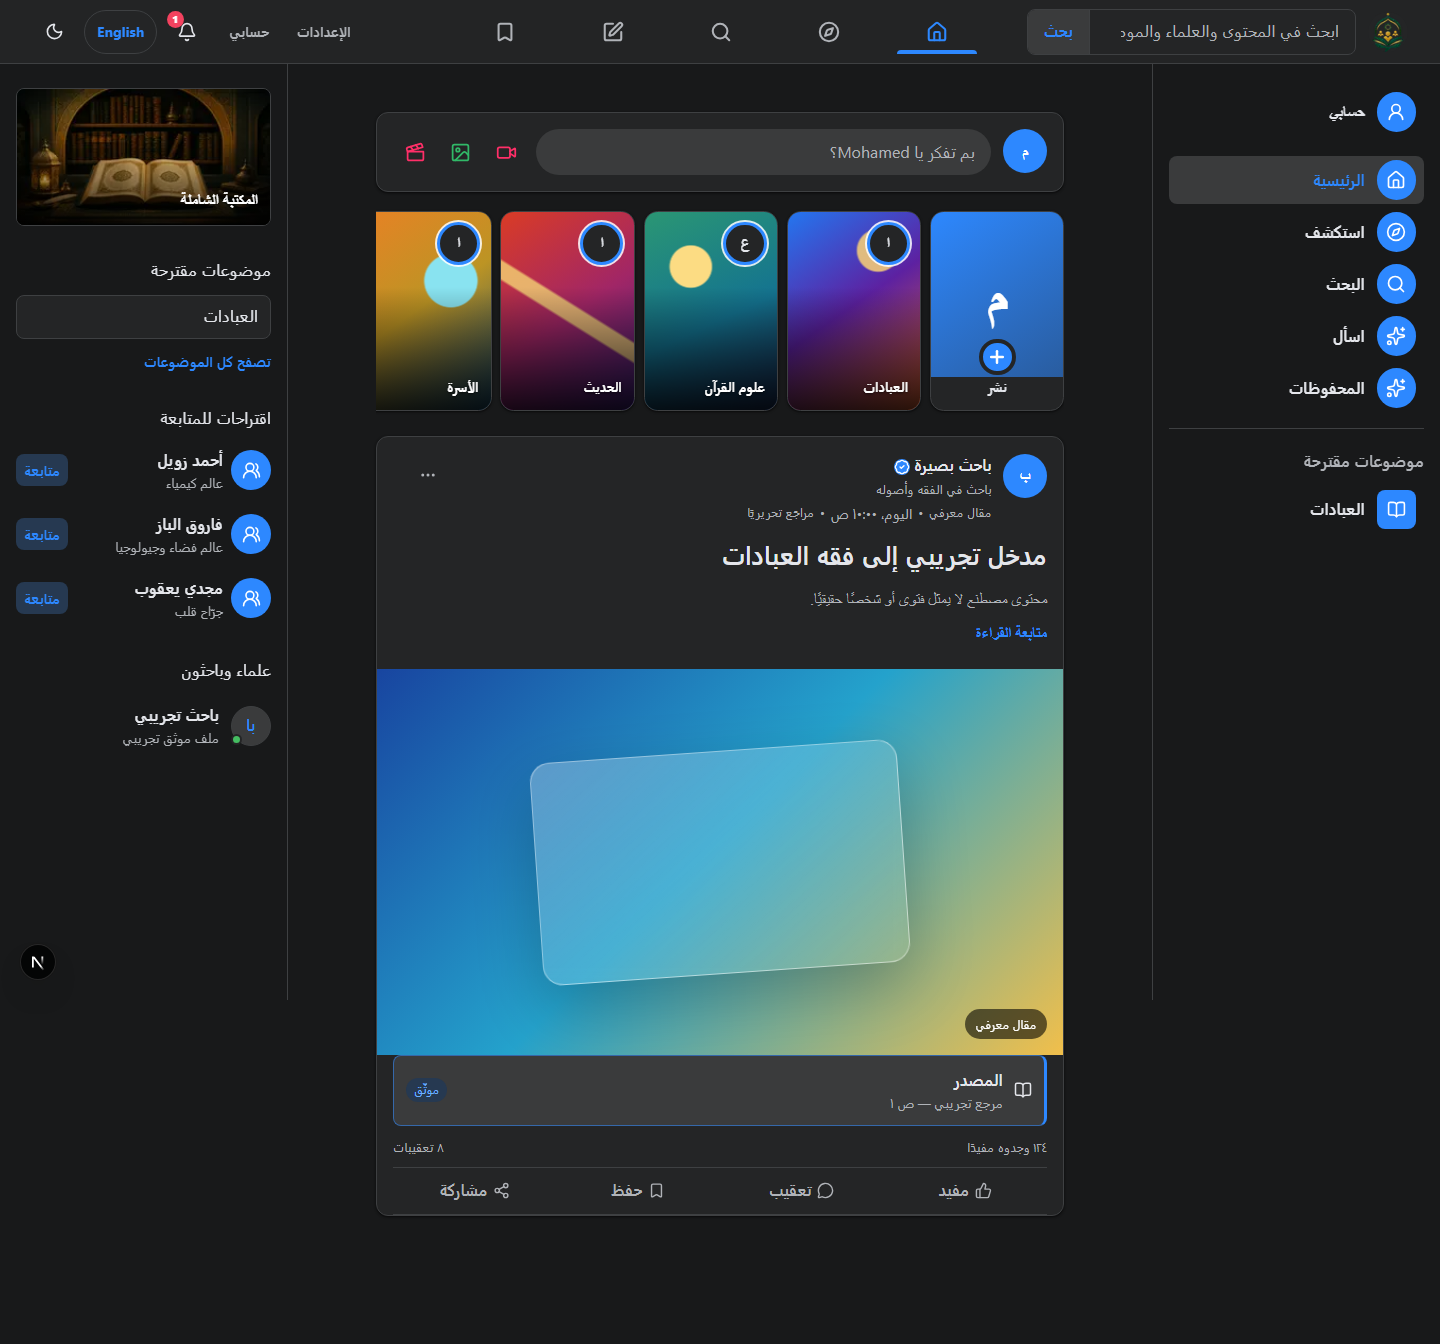
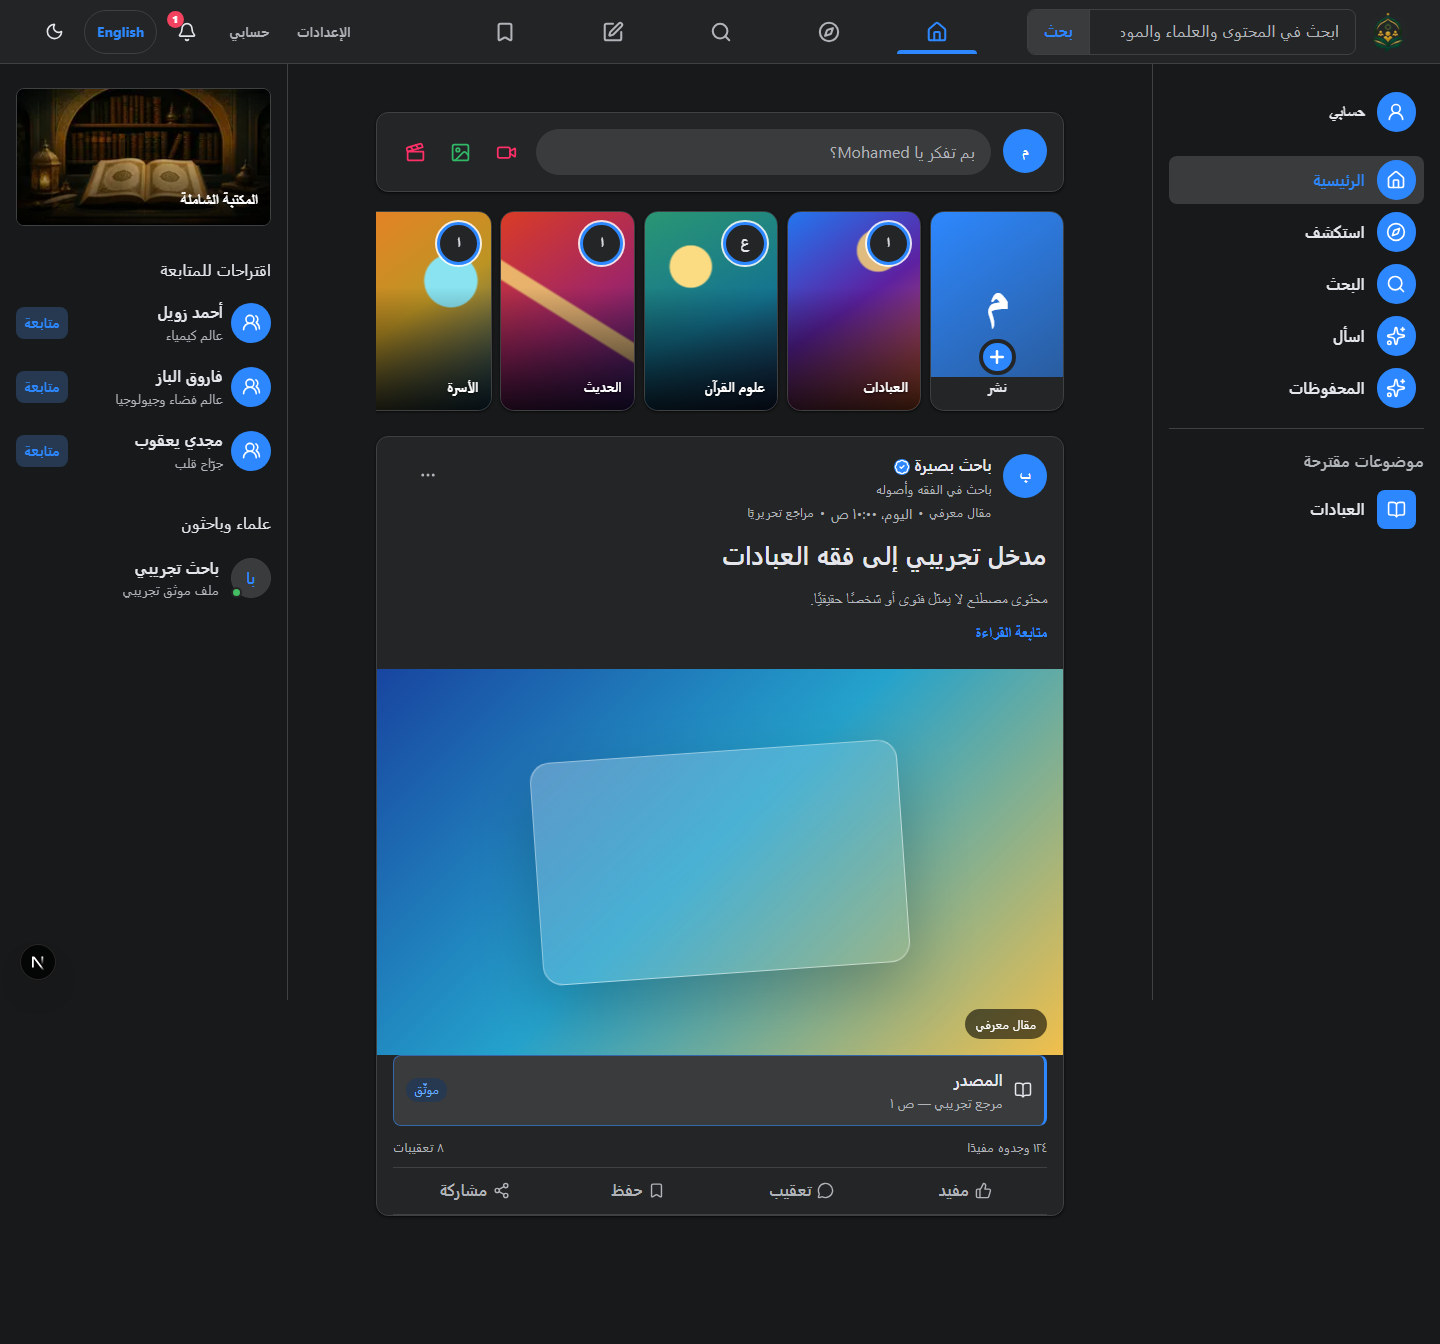
test(qa): verify discovery topics removal

Changed region(s): [[0.0938, 0.1875, 0.1875, 0.4688], [0.0, 0.2188, 0.0625, 0.4688], [0.0938, 0.5, 0.1875, 0.5625]]

diff --git a/e2e/stitch-visual.e2e.ts b/e2e/stitch-visual.e2e.ts
@@ -51,6 +51,10 @@ test.describe("Mounir Stitch shell visual contract", () => {
     await expect(libraryBanner).toHaveAttribute("target", "_blank");
     await expect(libraryBanner.locator("img")).toBeVisible();
     await expect(rail.locator("header")).toHaveCount(0);
+    await expect(rail.locator(".discovery-rail__topics")).toHaveCount(0);
+    await expect(rail.getByRole("heading", { name: "موضوعات مقترحة" })).toHaveCount(0);
+    await expect(rail.locator(".discovery-rail__suggestions")).toBeVisible();
+    await expect(rail.locator(".discovery-rail__scholars")).toBeVisible();
     await expect(navigation.locator(".shortcuts-rail nav a > span svg")).toHaveCount(5);
     await expect(navigation.locator(".shortcuts-rail__profile > span svg")).toHaveCount(1);
     await expect(navigation.locator(".shortcuts-rail__tile svg")).toHaveCount(1);

diff --git a/workflow/handoffs/qa-agent-remove-discovery-topics-v1.md b/workflow/handoffs/qa-agent-remove-discovery-topics-v1.md
@@ -1,0 +1,41 @@
+# Handoff: qa-agent / remove-discovery-topics-v1
+
+- Status: `review`
+- Base ref: `baecbe8`
+- Result ref: `committed handoff; see repository HEAD`
+- Tasks completed: `QA-REMOVE-DISCOVERY-TOPICS-001`
+
+## Delivered outputs
+
+| Path | Purpose |
+|---|---|
+| `e2e/stitch-visual.e2e.ts` | Absence and remaining-sidebar-content assertions |
+| `reports/qa/remove-discovery-topics-v1.md` | Cross-browser evidence |
+
+## Acceptance evidence
+
+| Criterion | Evidence/command | Result |
+|---|---|---|
+| Topics absent | Section and heading counts are zero | pass |
+| Other content intact | Banner, suggestions, and scholars are visible | pass |
+| Cross-browser RTL | Focused Playwright run | pass — 3/3 |
+
+## Decisions and assumptions
+
+- Scope is the left discovery rail only.
+
+## Open risks and deferred work
+
+- none
+
+## Cross-owner requests
+
+- none
+
+## Boundary check
+
+- Command: `./.github/scripts/Invoke-AgentBoundaryPS51.ps1 -AgentId qa-agent -BaseRef baecbe8`
+- Result: `pass`
+
+The agent stops after creating this handoff. Only the orchestrator may accept it and activate
+the successor.

diff --git a/reports/qa/remove-discovery-topics-v1.md b/reports/qa/remove-discovery-topics-v1.md
@@ -1,0 +1,5 @@
+# Discovery topics removal QA
+
+- The left discovery rail no longer contains the suggested-topics section or heading.
+- The Shamela banner, follow suggestions, and scholars remain visible.
+- Focused desktop RTL testing passed 3/3 on Chromium, Firefox, and WebKit.
